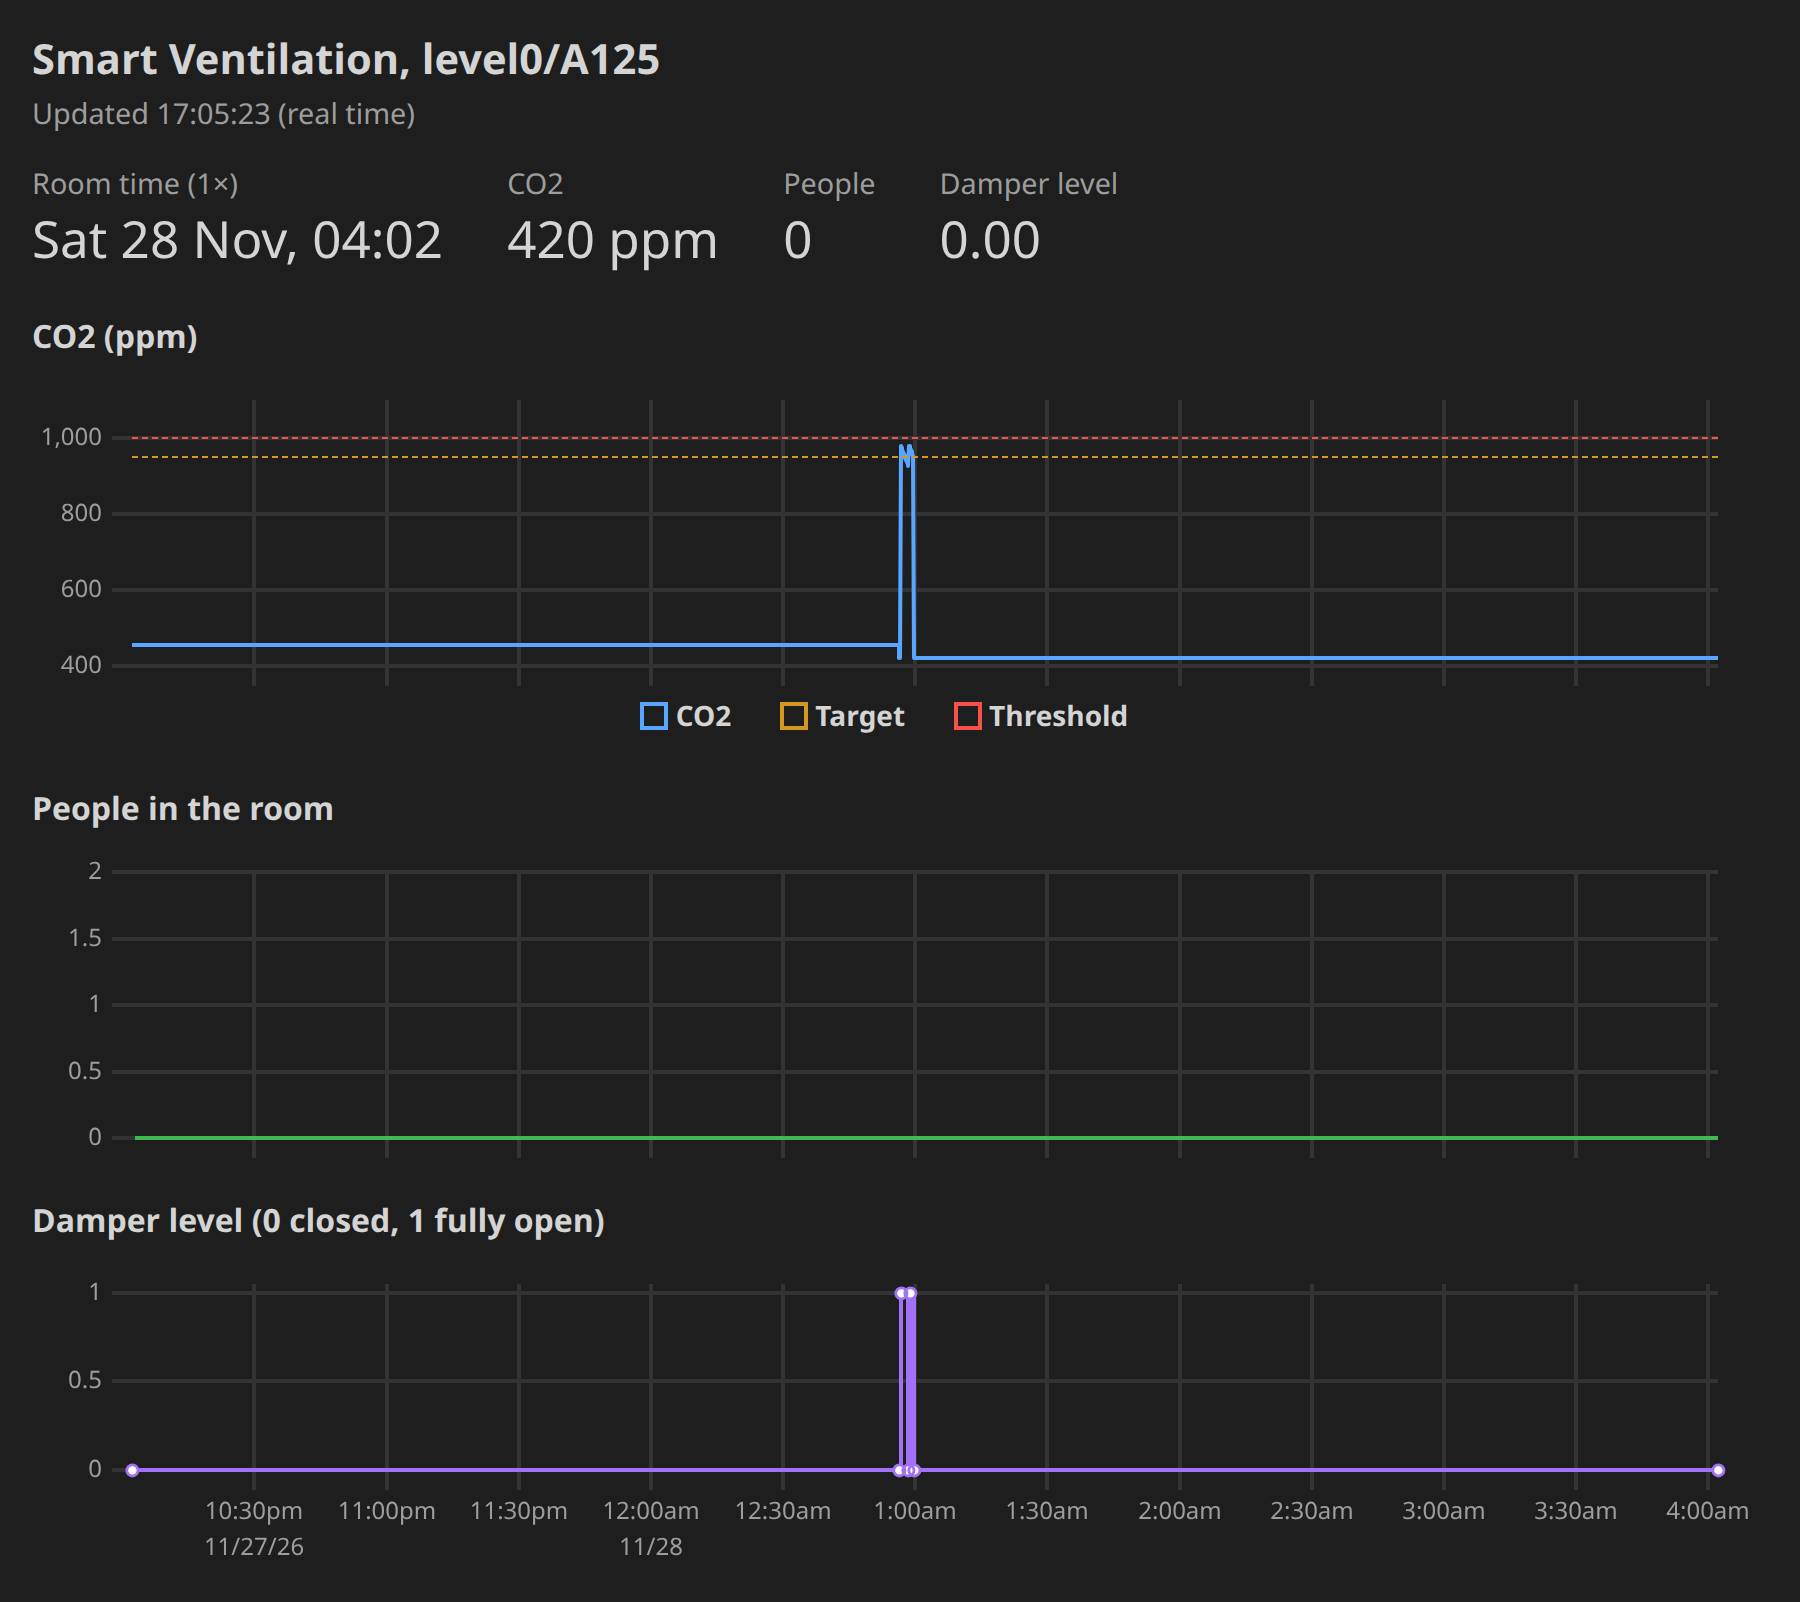
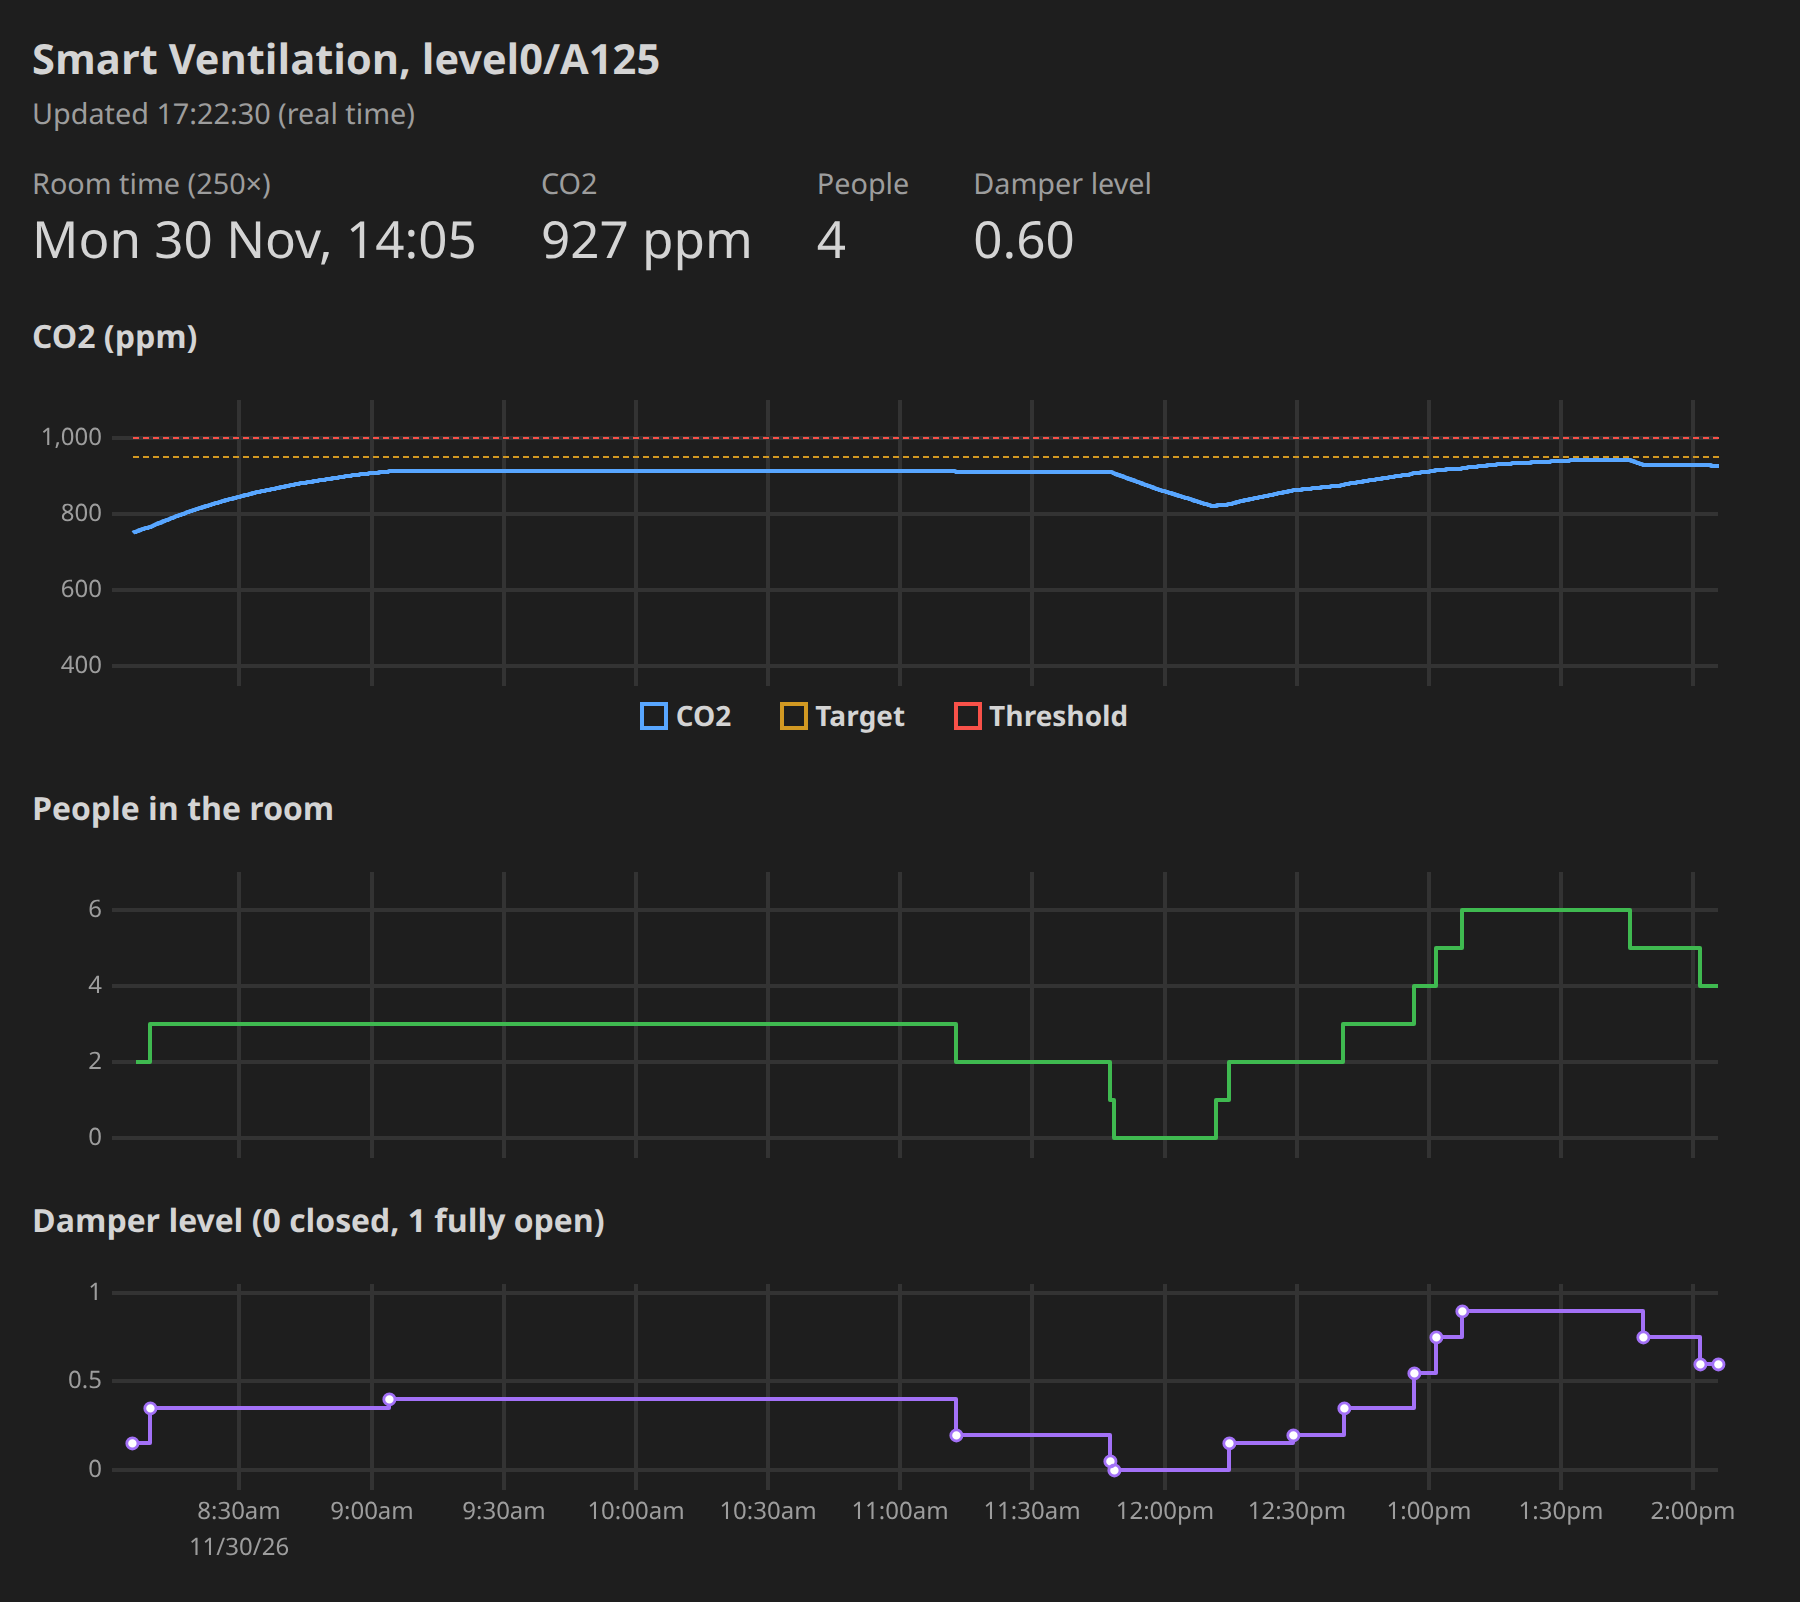
Write report section 12 with the dashboard
Write section 12 in latex/report/report.tex: what the Dashboard
shows, how it reads room time from storage, and why Grafana was
rejected. Mark FR-7 met in the test and results tables.

Replace latex/report/figures/dashboard.png with a screenshot taken
as Monday's meeting ends.

Delete row 15m from working_plan.md.

diff --git a/latex/report/report.tex b/latex/report/report.tex
@@ -1384,7 +1384,7 @@ the Message broker, on the running system & \req{NFR-3} & Test output; stored
 data & Not yet run \\
 \midrule
 Screenshot & Captures the Dashboard during a session & \req{FR-7} & Screenshot
-(Section~\ref{sec:dashboard}) & Not yet run \\
+(Section~\ref{sec:dashboard}) & Run \\
 \midrule
 Stress test & Raises the load step by step until the system stops
 keeping up, to find its breaking point & None & Measurements & Not yet
@@ -1433,7 +1433,8 @@ first at 973.8~ppm & Met \\
 \req{FR-4}, \req{FR-5}, \req{FR-6}, \req{FR-8}, \req{FR-9}, \req{FR-10} & All 67 unit tests and subtests
 pass & Met \\
 \midrule
-\req{FR-7} & Not yet measured & Open \\
+\req{FR-7} & CO₂, head count and damper level shown over the last
+6~hours of room time (Figure~\ref{fig:dashboard}) & Met \\
 \midrule
 \req{REG-1} & Peak CO₂ 938--943~ppm on the five room-model weekdays, meetings
 included & Met \\
@@ -1560,17 +1561,39 @@ Friday 2026-11-27, per room minute, for both methods
 
 \section{Dashboard}\label{sec:dashboard}
 
-\guidance{What the dashboard shows and how it overlays state and decisions on the
-BuildSim 3D view. Include a screenshot.}
+% Required points (report guide, section 3.12; template, section 12):
+% - what the dashboard shows: sensor readings, actuator states, decisions,
+%   alerts
+% - how it is built
+% - a screenshot
+
+The Operator watches the room on the Dashboard, a web page served by the
+Dashboard container (Figure~\ref{fig:dashboard}). Its top line gives the
+newest room time and the speed it runs at, with the latest CO₂ reading,
+head count and damper level. Below it, three charts cover the same last
+6~hours of room time: CO₂ with the 950~ppm target and the 1000~ppm
+threshold, the head count, and the damper level of each stored command.
+The damper level is the Decision service's decision; the page shows
+neither the reason for a level nor any alerts.
 
 \begin{figure}[H]
 \centering
 \includegraphics[width=\textwidth]{figures/dashboard.png}
-\caption{The Dashboard.}
+\caption{The Dashboard at 14:05 on Monday 2026-11-30, as the meeting
+ends, with room time running 250 times as fast as the wall clock.}
 \label{fig:dashboard}
 \end{figure}
 
-\fillin{Describe the dashboard here.}
+The page refreshes every 5~s of real time and reads everything from the
+History store through the Storage service's endpoints
+(Table~\ref{tab:endpoints}). Since room time can run ahead of the wall
+clock, the page asks for the newest stored room time and draws the
+6~hours before it, not the 6~hours before the current wall-clock time.
+This is why a ready-made tool such as Grafana was rejected: it draws over
+a window of wall-clock time, and room time can run days ahead of it, so
+the stored data would fall outside the window. The charts are drawn with
+uPlot, a small chart library kept in the repository, so the page needs no
+internet connection.
 
 \section{Risks and critical reflection}\label{sec:risks}
 

diff --git a/working_plan.md b/working_plan.md
@@ -14,7 +14,6 @@ decisions.
 
 | # | Part | Open decisions | Steps |
 |---|---|---|---|
-| 15m | §12 dashboard, saving the dashboard screenshot (FR-7) | | 1 |
 | 15n | §13 risks and critical reflection, including that the plan's 60-minute horizon and 950 ppm target are untuned and a per-minute plan was rejected, so the room model might save more; more advanced ways to use the room model, such as that per-minute optimizer or a decision policy trained in the simulator (reinforcement learning) | | 1 |
 | 15o | §1 summary, including the changes since the proposal | | 1 |
 
